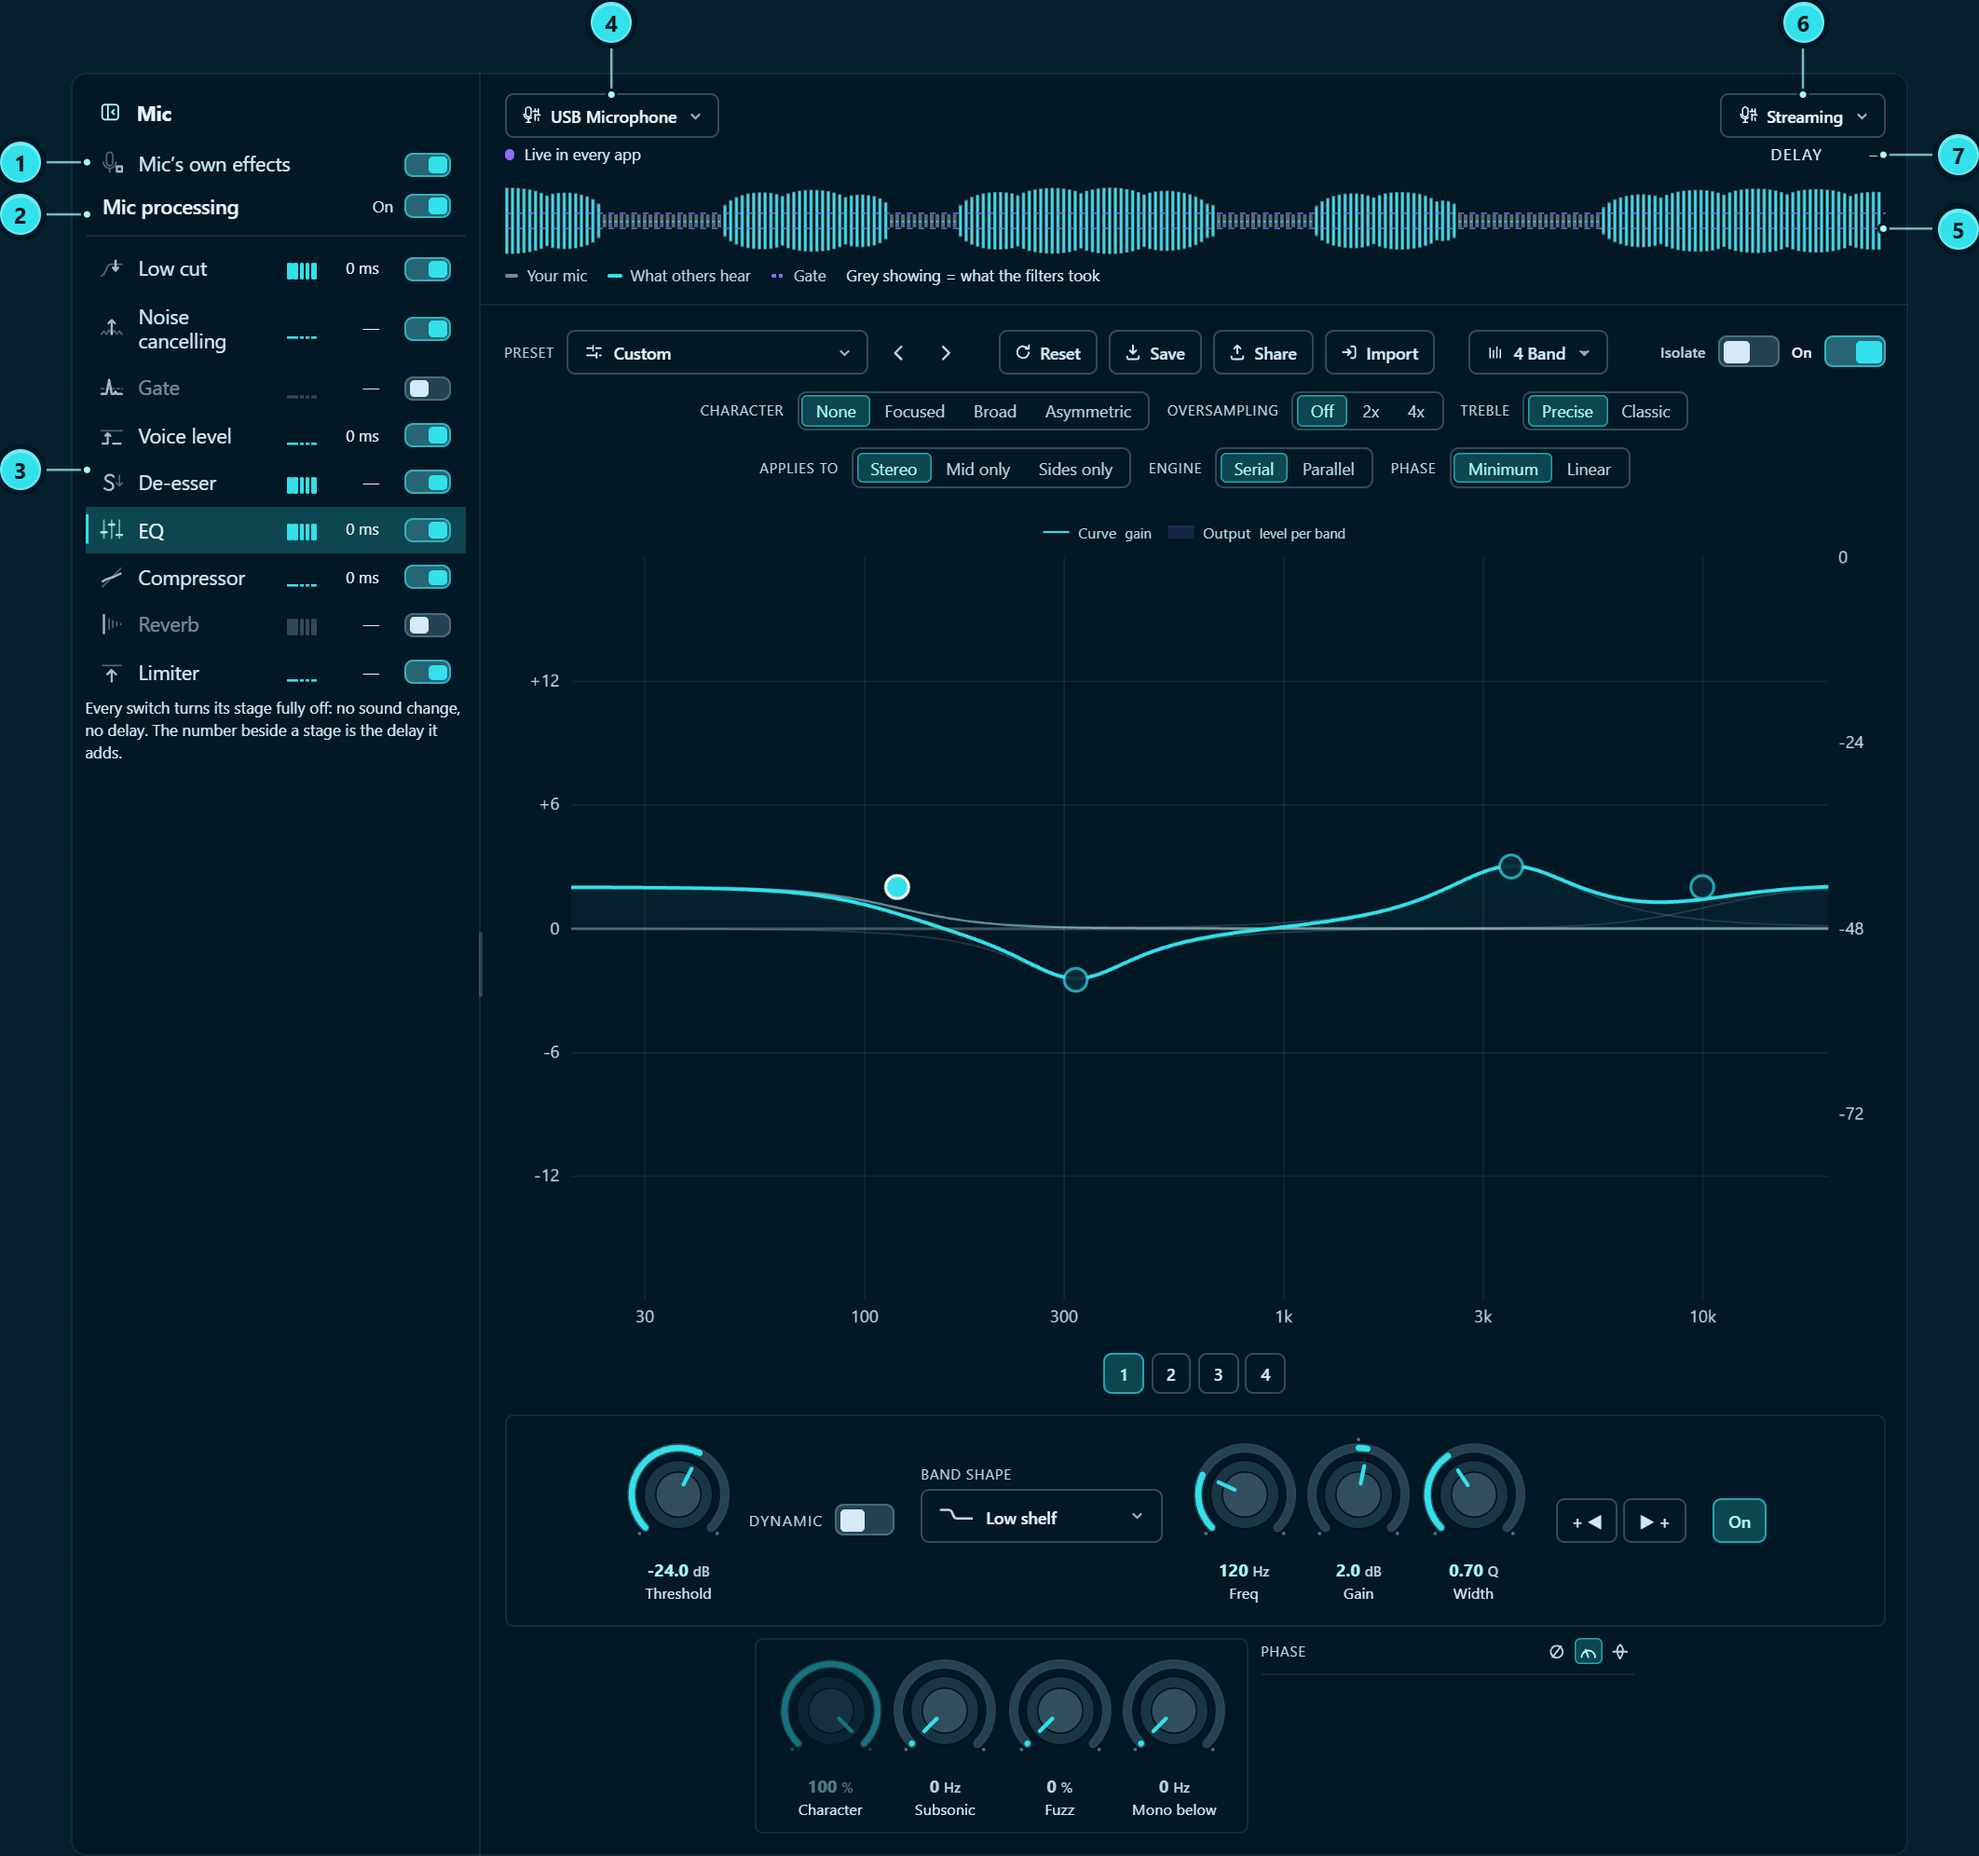
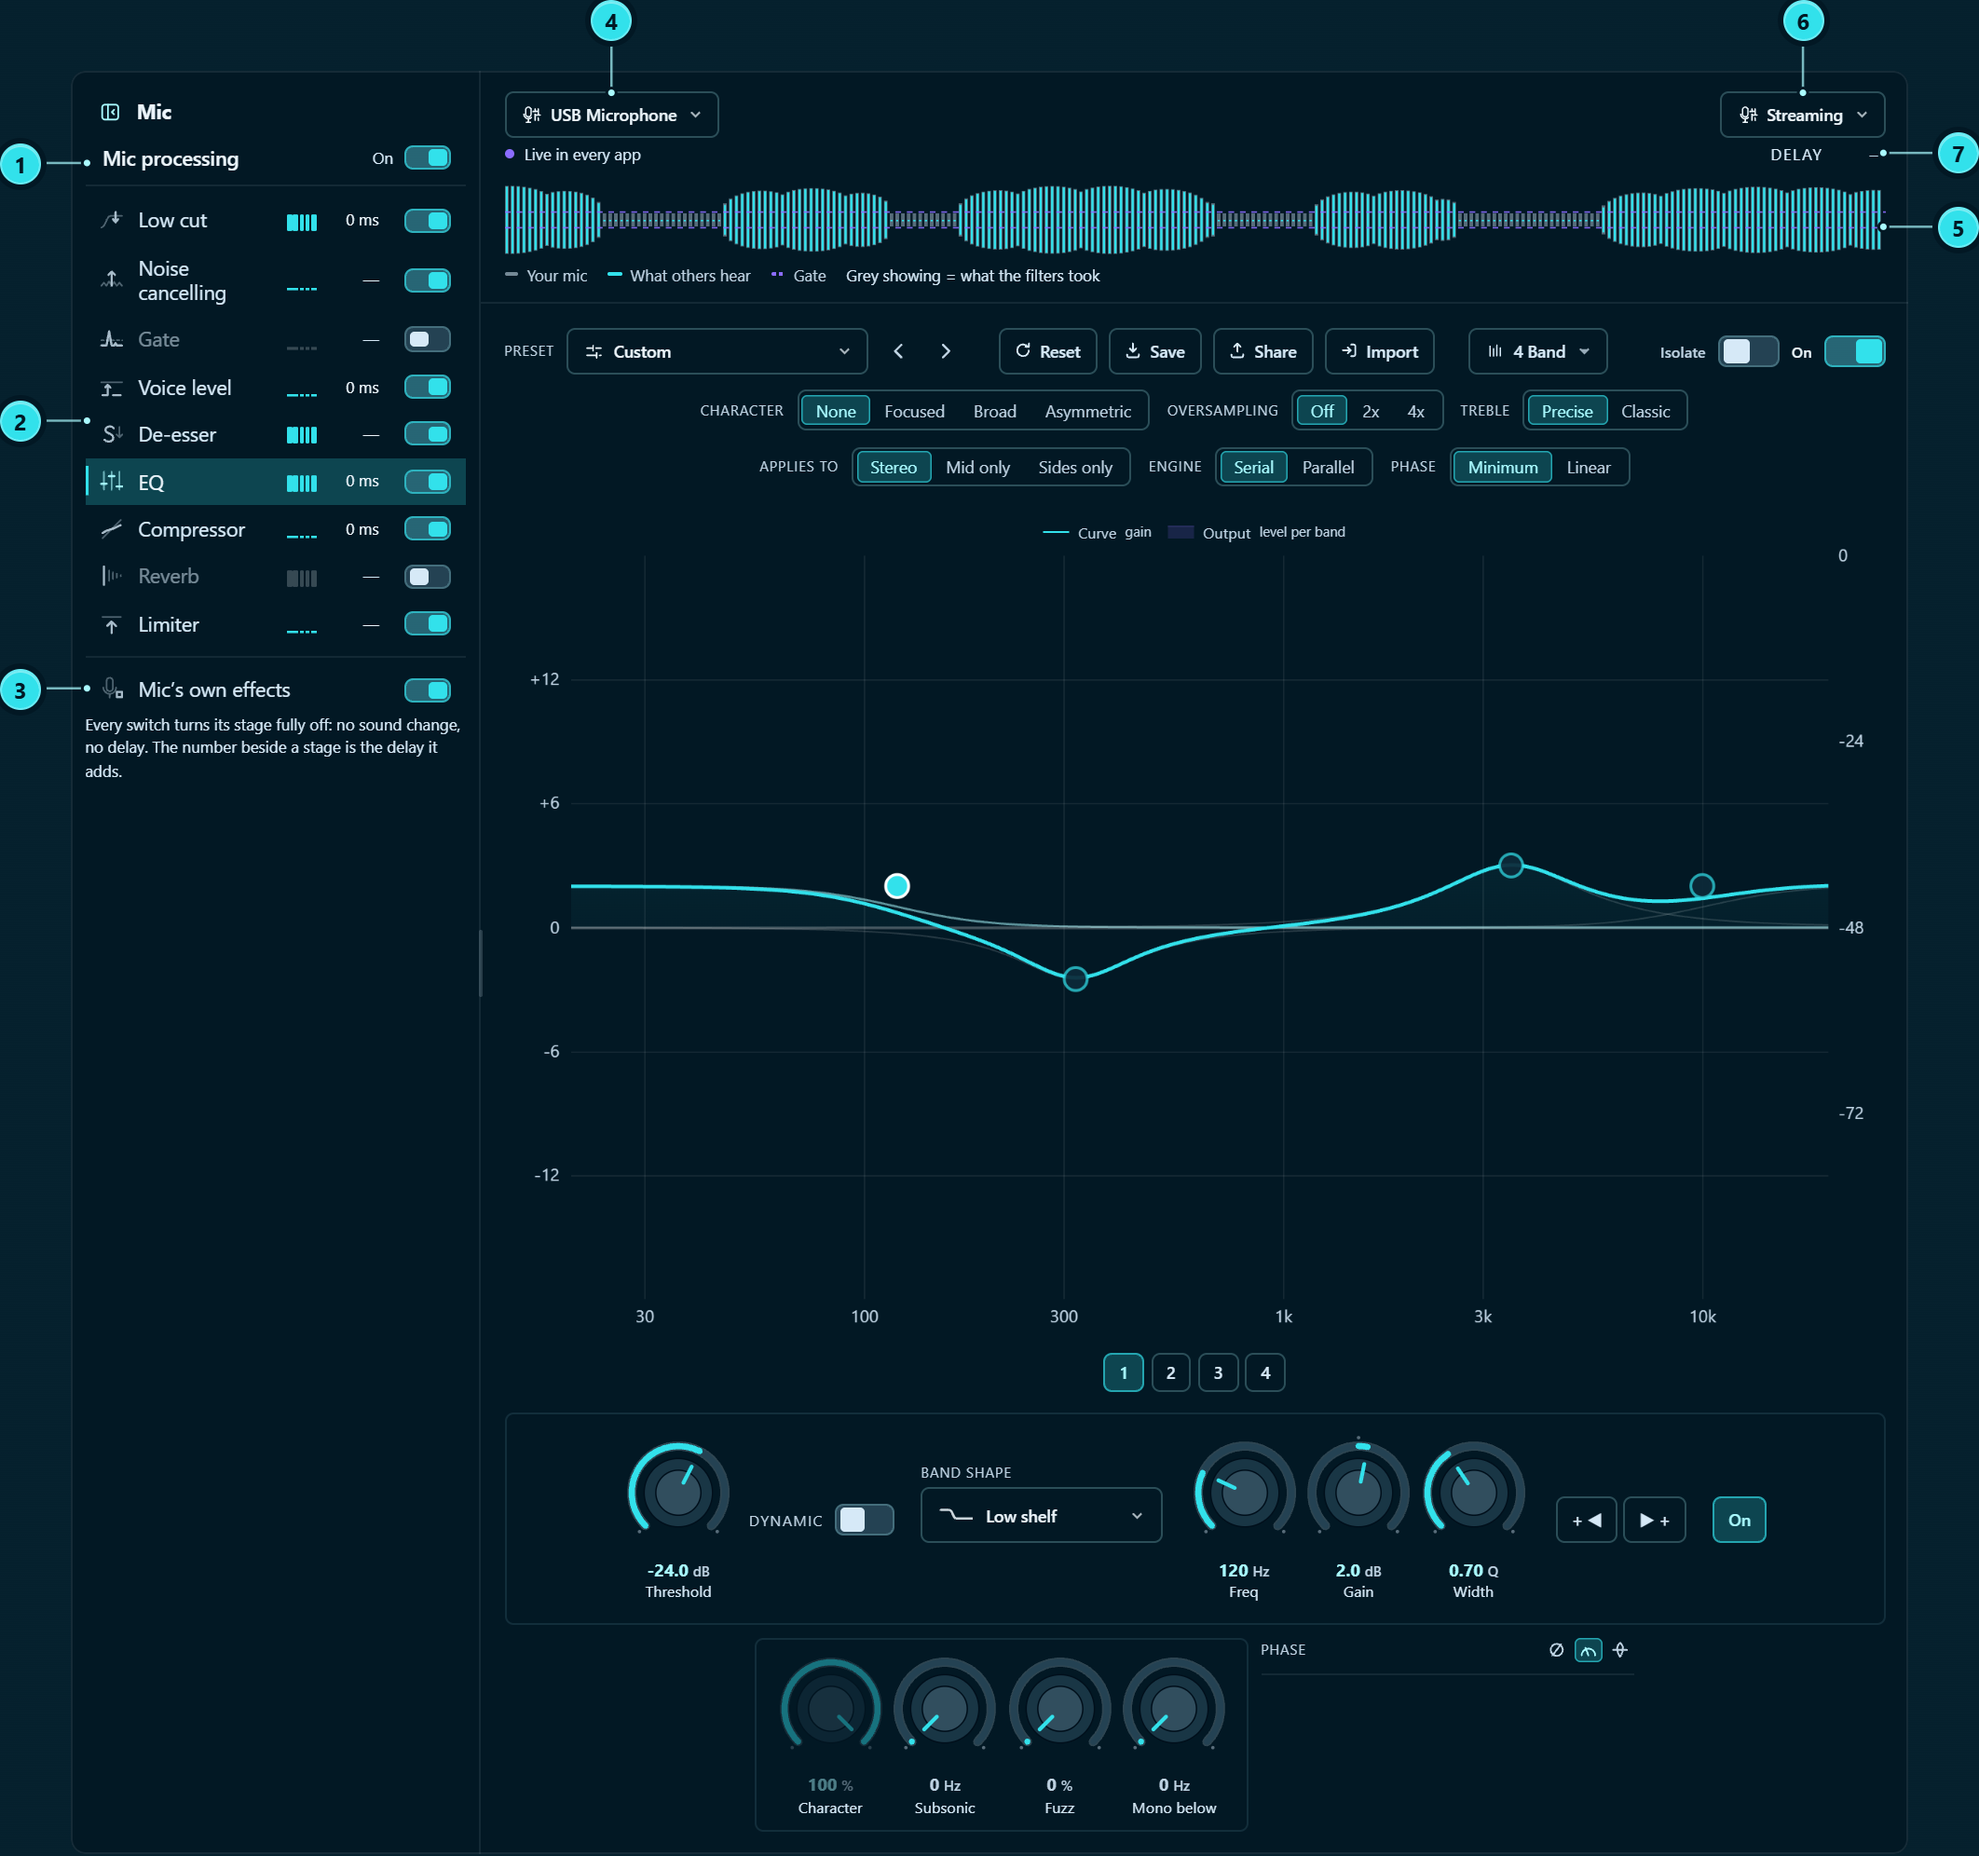
Help's Mic figure numbers the mic's own effects where 4adb3b4fb moved them, under the filters
The row went from the top of the rail to a block of its own under the
Limiter, and the figure's circle still looked for it as the rail's first row:
the drawing had nothing there, and the circle was left out (`pnpm docs:stills`
said so: 6 of its 7 circles). It now finds the row in its block, and the
circles follow the rail from the top — the rack's switch, the stages, the
mic's own effects — before the page's head. The picture and the exported
guide are taken again.

diff --git a/docs/user-guide.html b/docs/user-guide.html
@@ -3935,16 +3935,6 @@
             <li>
               <span class="n">1</span
               ><span
-                ><span class="name"><strong>Mic’s own effects</strong></span
-                ><span class="text"
-                  >What the mic’s maker puts on your voice before FluidEQ. Its
-                  switch asks Windows for permission each way.</span
-                ></span
-              >
-            </li>
-            <li>
-              <span class="n">2</span
-              ><span
                 ><span class="name"><strong>Mic processing</strong></span
                 ><span class="text"
                   >Turns the whole voice rack on or off for this mic.</span
@@ -3952,13 +3942,23 @@
               >
             </li>
             <li>
-              <span class="n">3</span
+              <span class="n">2</span
               ><span
                 ><span class="name"><strong>The stages</strong></span
                 ><span class="text"
                   >In the order your voice meets them, each with its switch, a
                   meter that moves with your voice and the delay it adds. Press
                   one to open it.</span
+                ></span
+              >
+            </li>
+            <li>
+              <span class="n">3</span
+              ><span
+                ><span class="name"><strong>Mic’s own effects</strong></span
+                ><span class="text"
+                  >What the mic’s maker puts on your voice before FluidEQ. Its
+                  switch asks Windows for permission each way.</span
                 ></span
               >
             </li>

diff --git a/src/common/helpChapters/dsp.ts b/src/common/helpChapters/dsp.ts
@@ -310,12 +310,6 @@ const DSP_CHAPTERS = [
         still: 'help/mic-page.png',
         controls: [
           {
-            // The maker's own effects: the first row, over the rack's switch.
-            target: '.mic-rail > .dsp-rail-row:first-child',
-            name: 'mic.stage.own',
-            text: 'help.mic.own',
-          },
-          {
             target: '.mic-rail__master',
             name: 'mic.rail.master',
             text: 'help.mic.master',
@@ -324,6 +318,13 @@ const DSP_CHAPTERS = [
             target: '.mic-rail > .mic-rail__master ~ .dsp-rail-row',
             name: 'help.mic.stagesName',
             text: 'help.mic.stages',
+          },
+          {
+            // The maker's own effects: under the filters, behind a divider of
+            // their own since 2026-11-25.
+            target: '.mic-rail__own .dsp-rail-row',
+            name: 'mic.stage.own',
+            text: 'help.mic.own',
           },
           {
             target: '.mic-head__pick .rich-pick__trigger',

diff --git a/docs/USER-GUIDE.md b/docs/USER-GUIDE.md
@@ -724,9 +724,9 @@ The Mic tab gives each microphone a voice rack of its own. The FluidEQ Engine ru
 
 ![Your microphone’s sound](help/mic-page.png)
 
-1. **Mic’s own effects** — What the mic’s maker puts on your voice before FluidEQ. Its switch asks Windows for permission each way.
-2. **Mic processing** — Turns the whole voice rack on or off for this mic.
-3. **The stages** — In the order your voice meets them, each with its switch, a meter that moves with your voice and the delay it adds. Press one to open it.
+1. **Mic processing** — Turns the whole voice rack on or off for this mic.
+2. **The stages** — In the order your voice meets them, each with its switch, a meter that moves with your voice and the delay it adds. Press one to open it.
+3. **Mic’s own effects** — What the mic’s maker puts on your voice before FluidEQ. Its switch asks Windows for permission each way.
 4. **Microphone** — The microphone you are shaping; each one keeps its own sound. The line under it says whether the engine is working on it now.
 5. **Your voice** — Faint is what the mic picks up, bright is what others hear, and grey showing is what the filters took.
 6. **Mic profile** — Ready-made voice sounds by use, by mic, for singing and as voice effects. A change marks the profile tuned; Reset brings it back.
